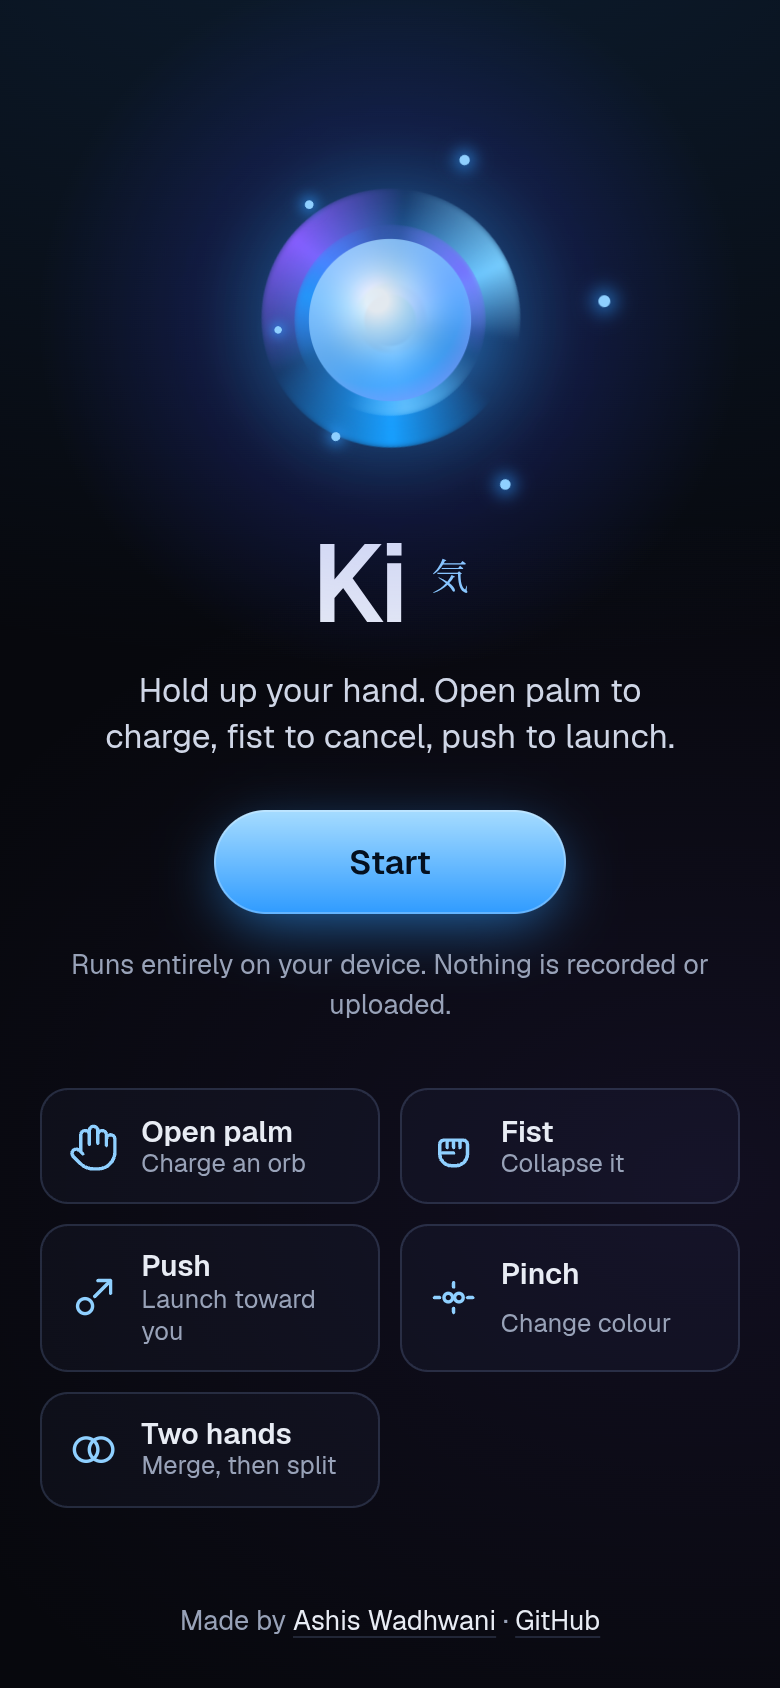
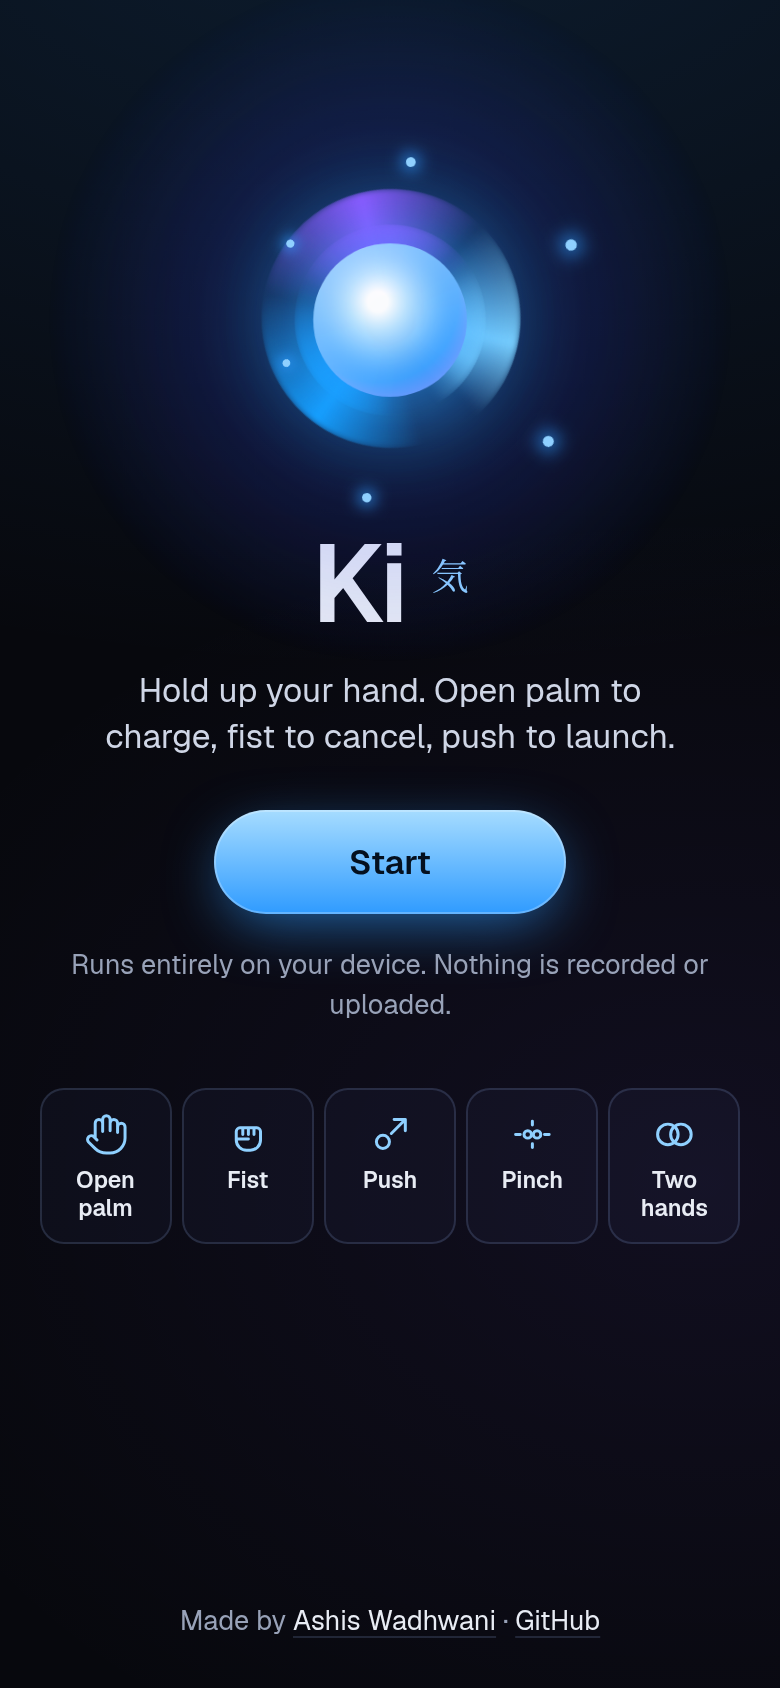
Show all five gestures in one row
On phones the cards show icon and name only; descriptions stay for
screen readers.

diff --git a/src/styles.css b/src/styles.css
@@ -152,25 +152,32 @@ a { color: inherit; }
   padding: 0;
   margin: 2rem 0 0;
   display: grid;
-  grid-template-columns: repeat(auto-fit, minmax(8.5rem, 1fr));
-  gap: 0.6rem;
-  width: min(100%, 44rem);
+  grid-template-columns: repeat(5, minmax(0, 1fr));
+  gap: 0.5rem;
+  width: min(100%, 46rem);
 }
 .legend li {
-  display: grid;
-  grid-template-columns: auto 1fr;
-  grid-template-areas: 'i b' 'i s';
-  column-gap: 0.7rem;
+  display: flex;
+  flex-direction: column;
   align-items: center;
-  text-align: left;
-  padding: 0.7rem 0.8rem;
+  gap: 0.3rem;
+  text-align: center;
+  padding: 0.75rem 0.4rem;
   border: 1px solid var(--line);
   border-radius: 14px;
   background: rgba(120, 160, 255, 0.04);
 }
-.legend svg { grid-area: i; width: 1.6rem; height: 1.6rem; fill: none; stroke: var(--azure-hi); stroke-width: 1.6; stroke-linecap: round; stroke-linejoin: round; }
-.legend b { grid-area: b; font-weight: 600; font-size: 0.92rem; line-height: 1.2; }
-.legend span { grid-area: s; font-size: 0.8rem; color: var(--muted); line-height: 1.25; }
+.legend svg { width: 1.6rem; height: 1.6rem; flex: none; fill: none; stroke: var(--azure-hi); stroke-width: 1.6; stroke-linecap: round; stroke-linejoin: round; }
+.legend b { font-weight: 600; font-size: 0.9rem; line-height: 1.2; }
+.legend span { font-size: 0.78rem; color: var(--muted); line-height: 1.25; }
+/* Phones: keep all five on one line; icon + name only. */
+@media (max-width: 620px) {
+  .legend { gap: 0.35rem; }
+  .legend li { padding: 0.65rem 0.15rem; border-radius: 12px; }
+  .legend svg { width: 1.4rem; height: 1.4rem; }
+  .legend b { font-size: 0.72rem; }
+  .legend span { position: absolute; width: 1px; height: 1px; overflow: hidden; clip: rect(0 0 0 0); white-space: nowrap; }
+}
 
 .foot { margin-top: auto; padding-top: 2.5rem; font-size: 0.85rem; color: var(--muted); }
 .foot a { color: var(--fg); text-decoration: underline; text-decoration-color: var(--line); text-underline-offset: 3px; }
